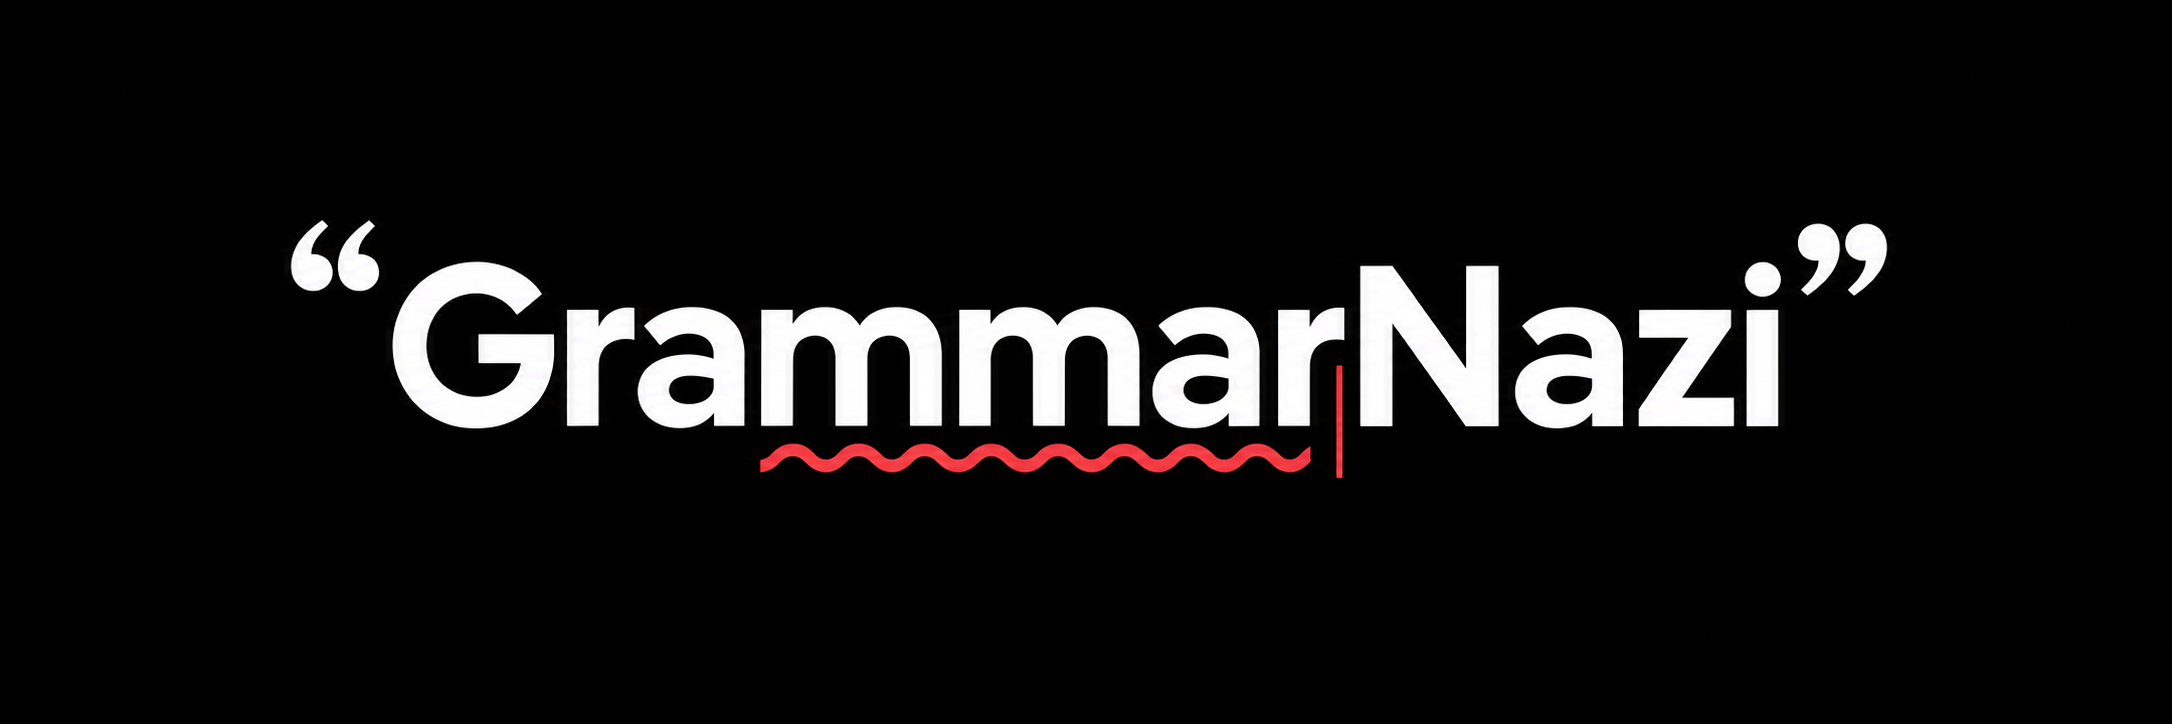
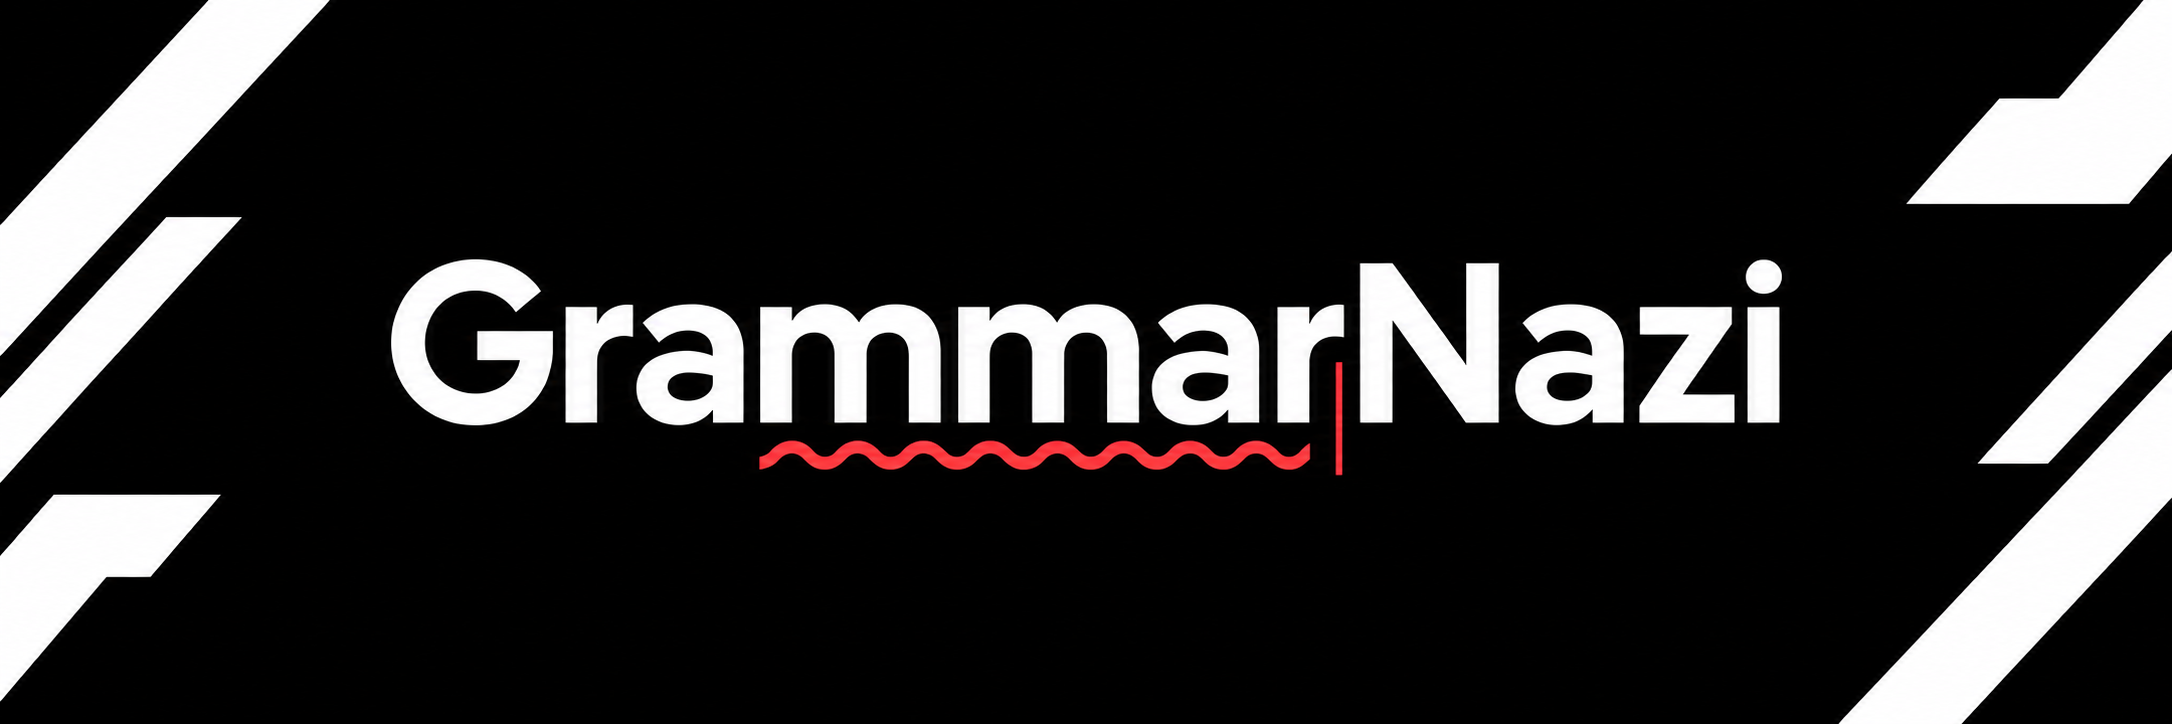
Update cover image and README alt text

diff --git a/README.md b/README.md
@@ -1,4 +1,4 @@
-![GrammarNazi cover with bold white lettering, quotation marks, and a red proofreading underline on black](assets/grammarnazi-cover.png)
+![GrammarNazi cover with bold white lettering, angular white accents, and a red proofreading underline on black](assets/grammarnazi-cover.png)
 
 # GrammarNazi
 
